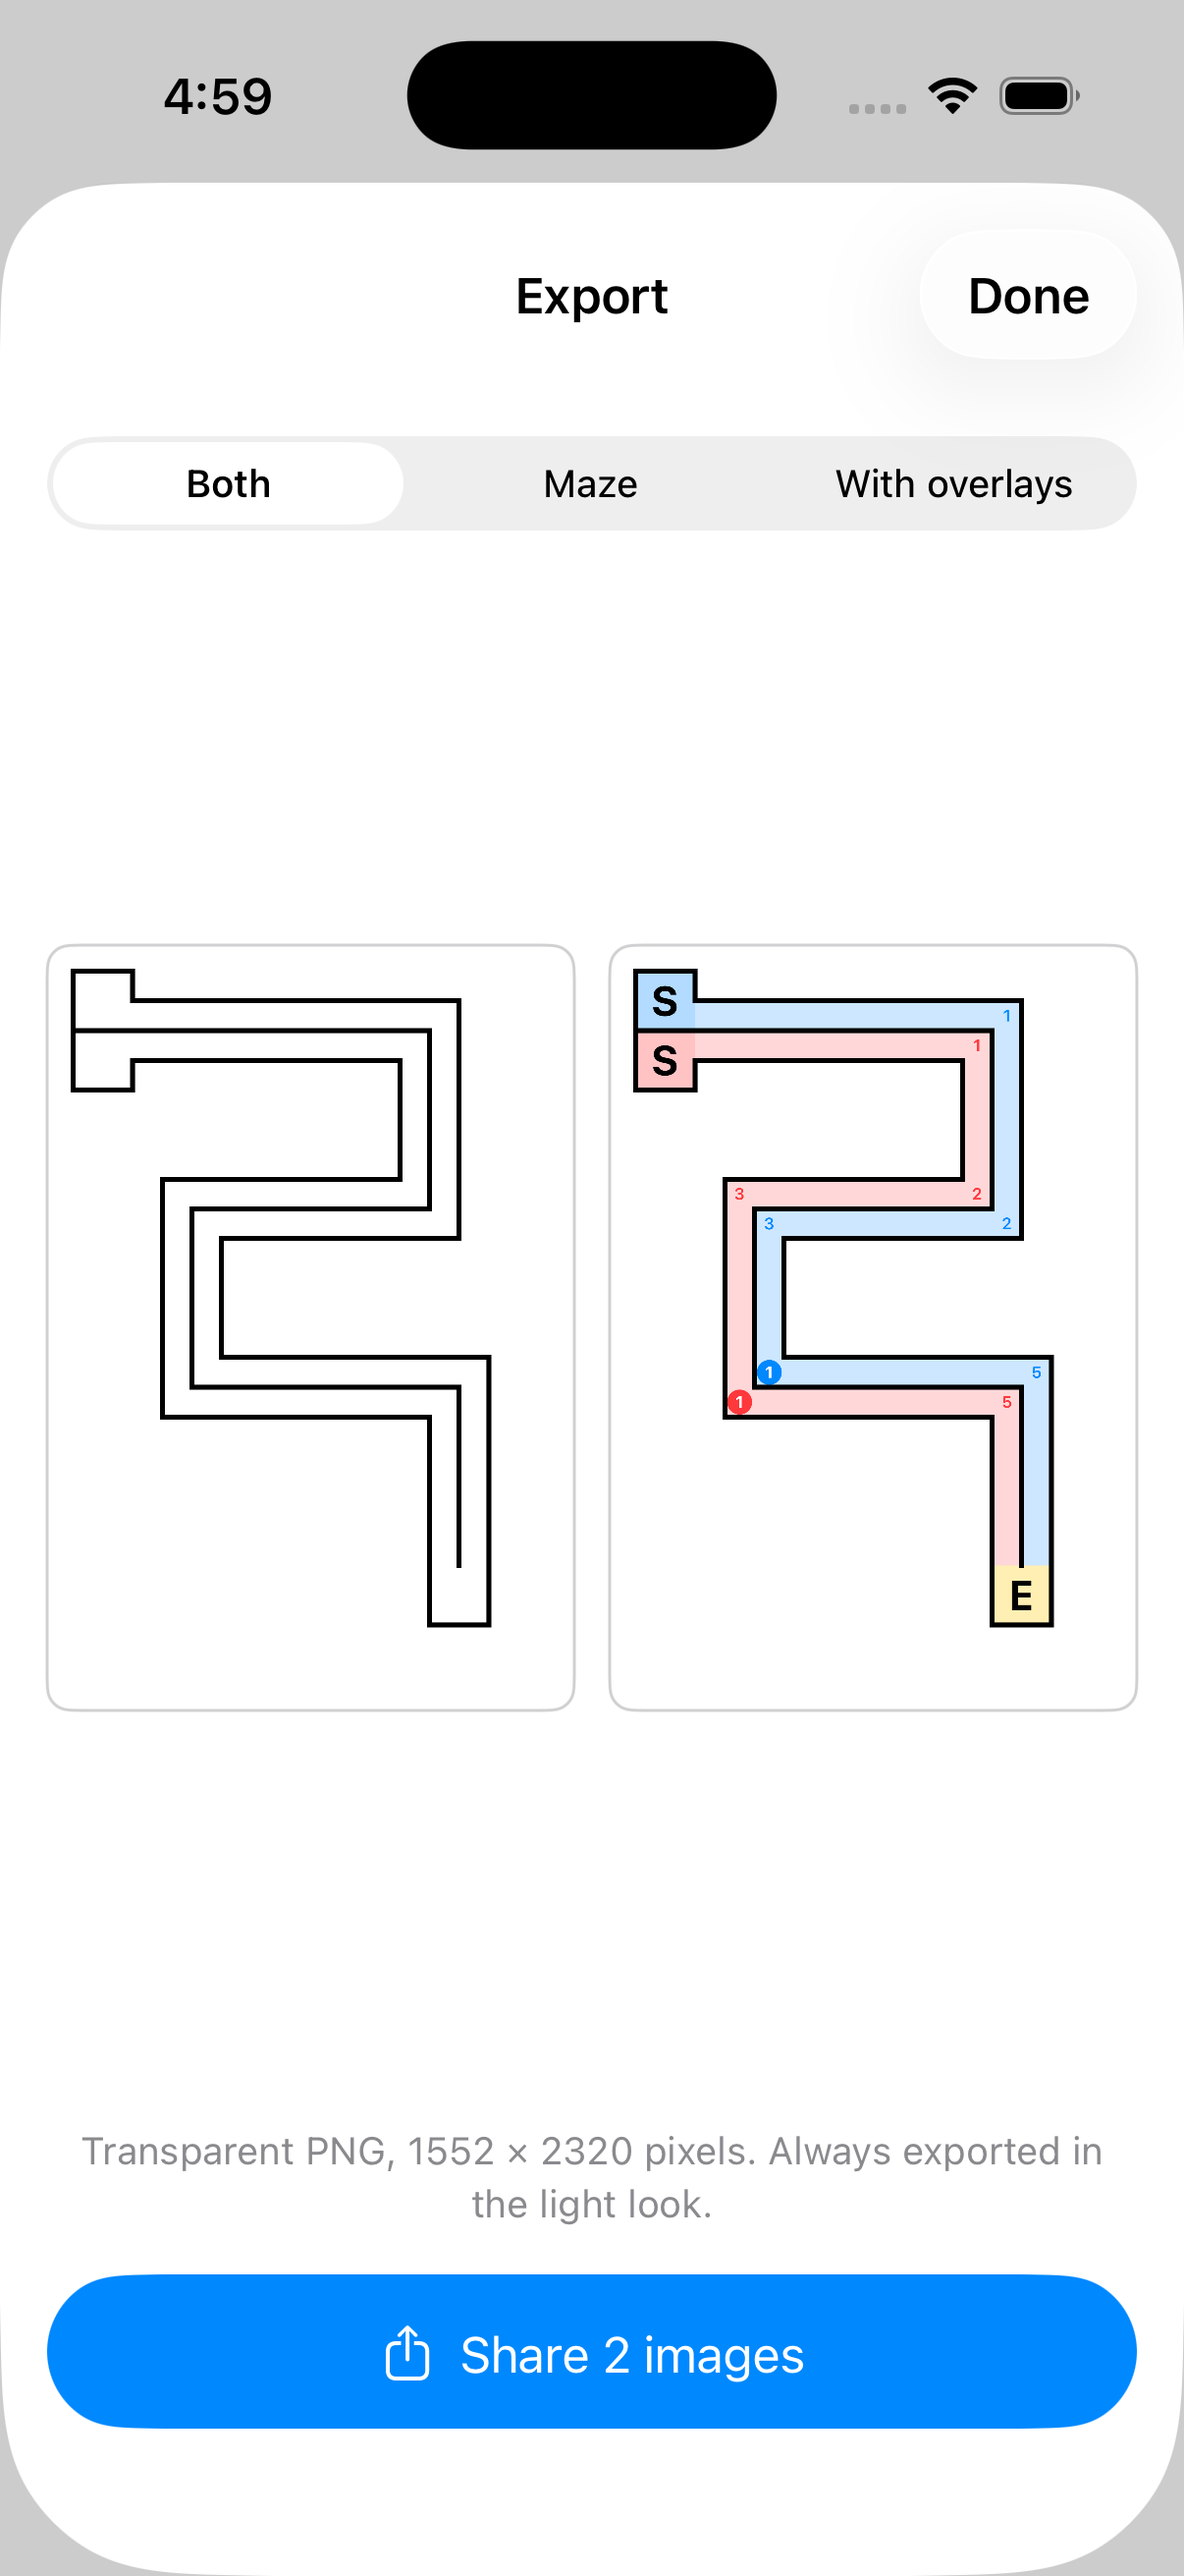
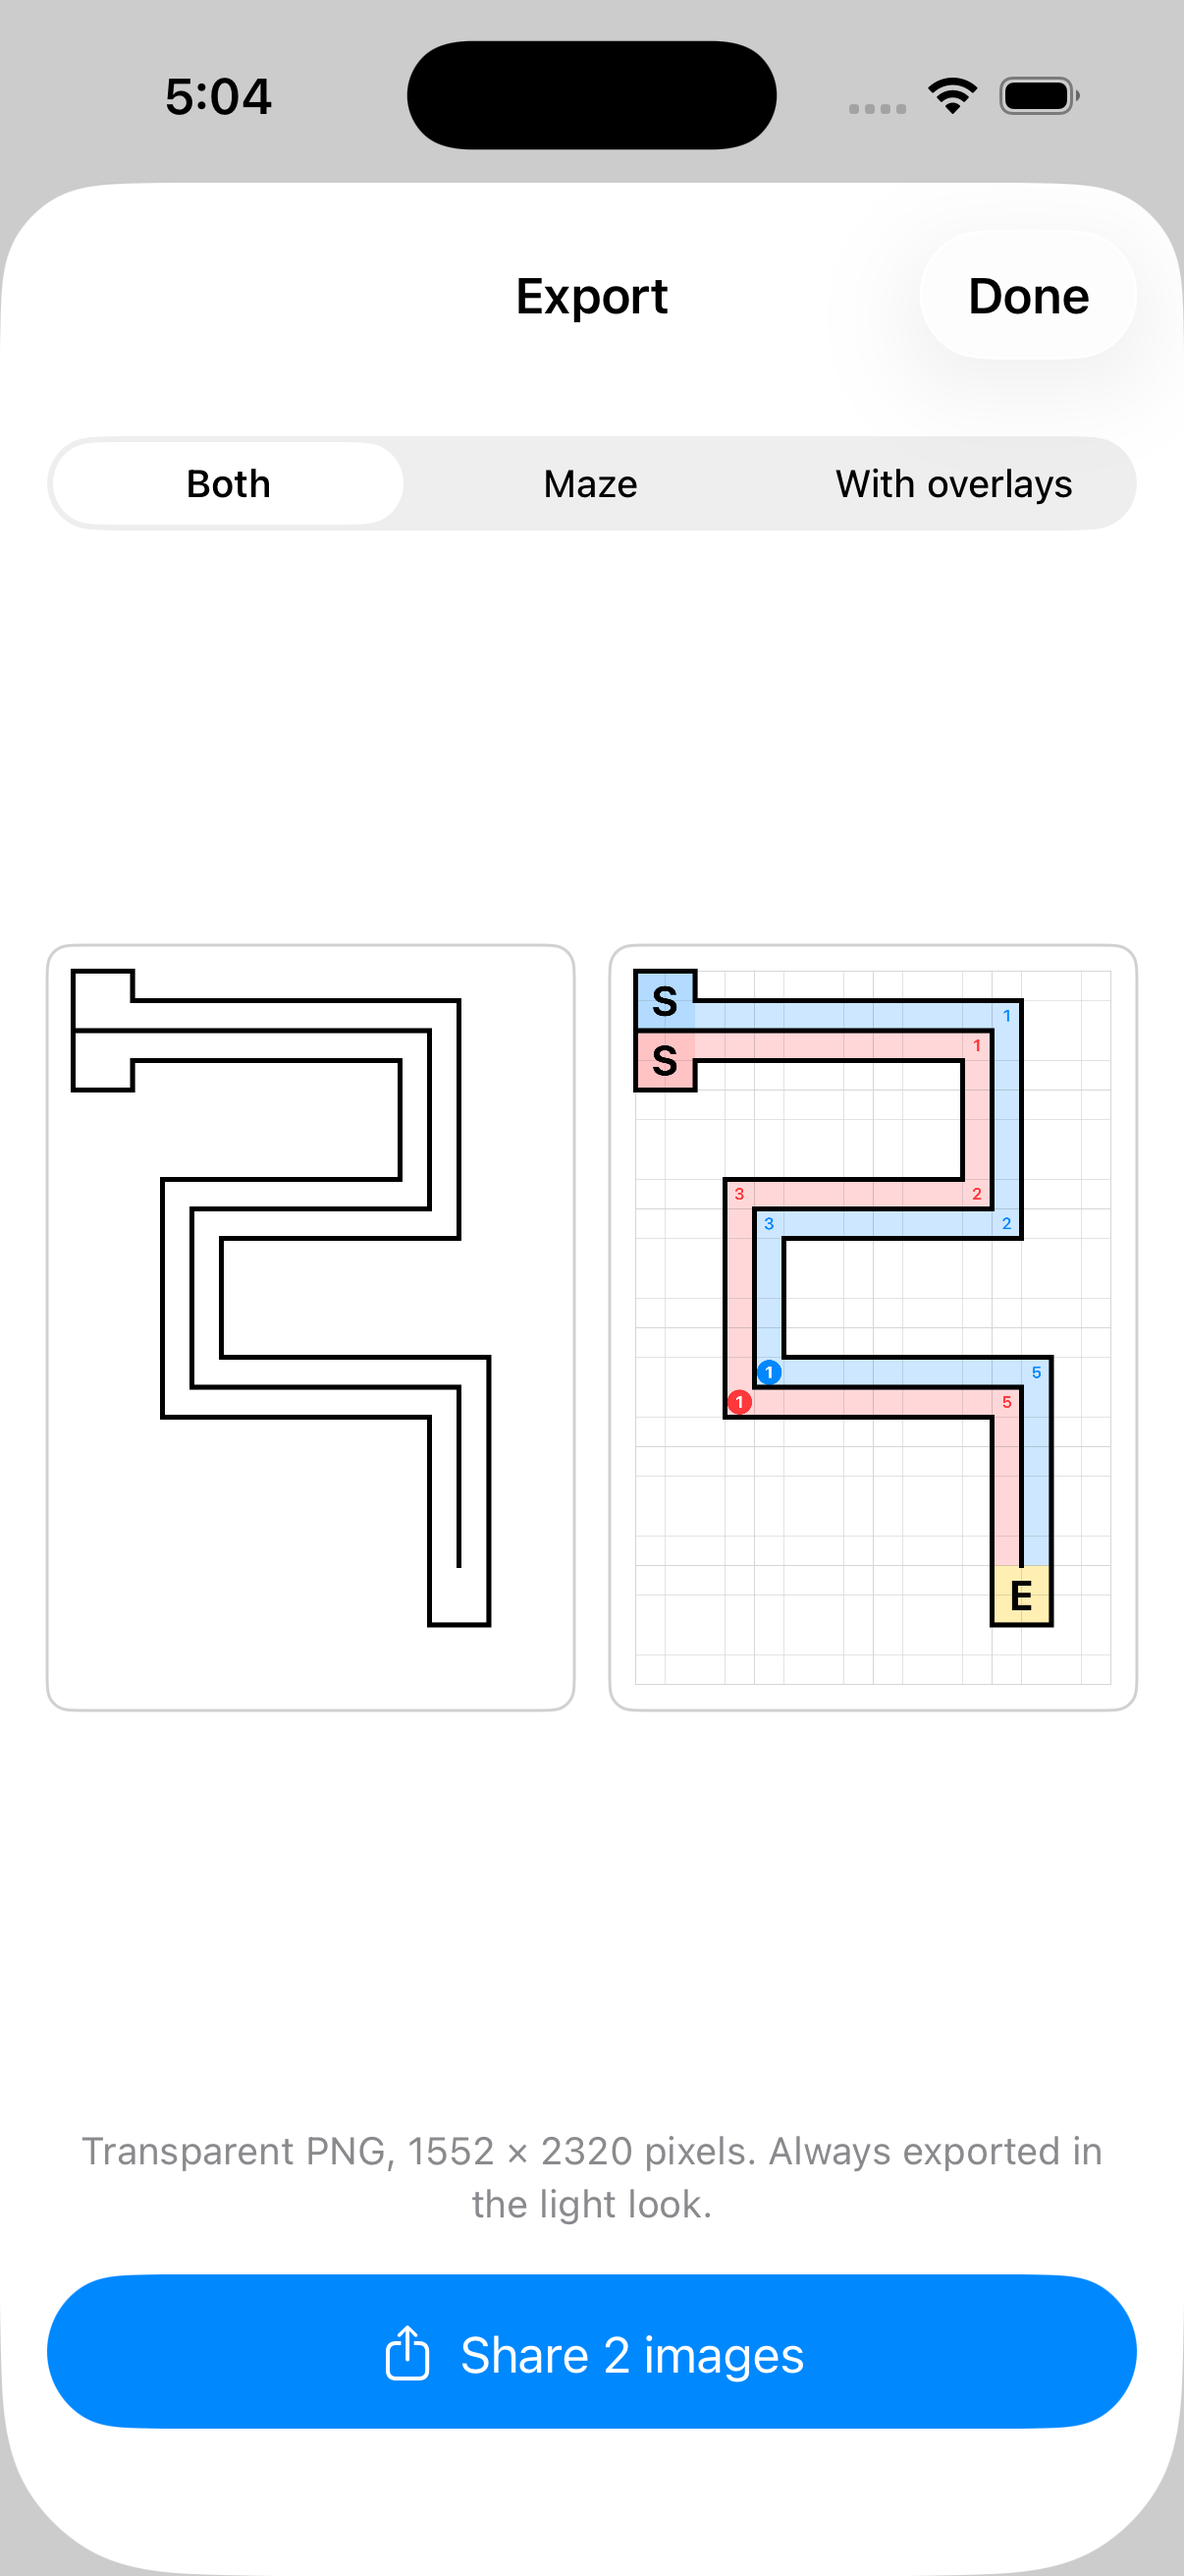
Keep the grid in the overlay export

Changed region(s): [[0.1227, 0.0309, 0.2454, 0.0618]]

diff --git a/MazeToolTests/MazeExportTests.swift b/MazeToolTests/MazeExportTests.swift
@@ -65,6 +65,18 @@ struct MazeExportTests {
         #expect(try pixel(of: image, atCellX: 1.5, y: 1.0, in: document) == [0, 0, 0, 255])
     }
 
+    @Test func onlyTheOverlayStyleDrawsTheGridIncludingItsOuterEdge() throws {
+        let document = makeDocument()
+        let maze = try #require(MazeExport.image(of: document, style: .maze))
+        let overlay = try #require(MazeExport.image(of: document, style: .overlay))
+
+        // A grid line between two dead-space cells, and the grid's left edge beside dead space.
+        #expect(try pixel(of: maze, atCellX: 1.0, y: 2.5, in: document)[3] == 0)
+        #expect(try pixel(of: overlay, atCellX: 1.0, y: 2.5, in: document)[3] > 0)
+        #expect(try pixel(of: maze, atCellX: 0.0, y: 2.5, in: document)[3] == 0)
+        #expect(try pixel(of: overlay, atCellX: 0.0, y: 2.5, in: document)[3] > 0)
+    }
+
     @Test func pngFilesAreNamedAfterTheMazeAndStyle() throws {
         let url = try MazeExport.writePNG(of: makeDocument(), style: .overlay)
 

diff --git a/MazeTool/Views/MazeExport.swift b/MazeTool/Views/MazeExport.swift
@@ -7,7 +7,7 @@ enum MazeExport {
     enum Style: String, CaseIterable, Identifiable {
         /// Walls only, as in the editor's preview.
         case maze
-        /// Walls plus team colour, step labels, move badges and room markers.
+        /// Walls plus the grid, team colour, step labels, move badges and room markers.
         case overlay
 
         var id: Self { self }
@@ -46,7 +46,7 @@ enum MazeExport {
         let canvas = MazeCanvas(
             maze: document.maze,
             wallThickness: document.settings.wallThickness,
-            showsGrid: false,
+            showsGrid: style == .overlay,
             isPreview: style == .maze,
             showsBackdrop: false,
             ink: .black,

diff --git a/MazeTool/Views/MazeCanvas.swift b/MazeTool/Views/MazeCanvas.swift
@@ -68,7 +68,12 @@ struct MazeCanvas: View {
                 context.fill(tinted, with: .color(route.team.color.opacity(0.2)))
             }
             if showsGrid {
-                context.stroke(Self.gridLines(geometry), with: .color(.secondary.opacity(0.35)), lineWidth: 0.5)
+                var lines = Self.gridLines(geometry)
+                // With no backdrop there is no border, so the grid closes its own outer edge.
+                if !showsBackdrop {
+                    lines.addRect(geometry.frame)
+                }
+                context.stroke(lines, with: .color(.secondary.opacity(0.35)), lineWidth: 0.5)
             }
             context.stroke(
                 walls, with: .color(ink),
